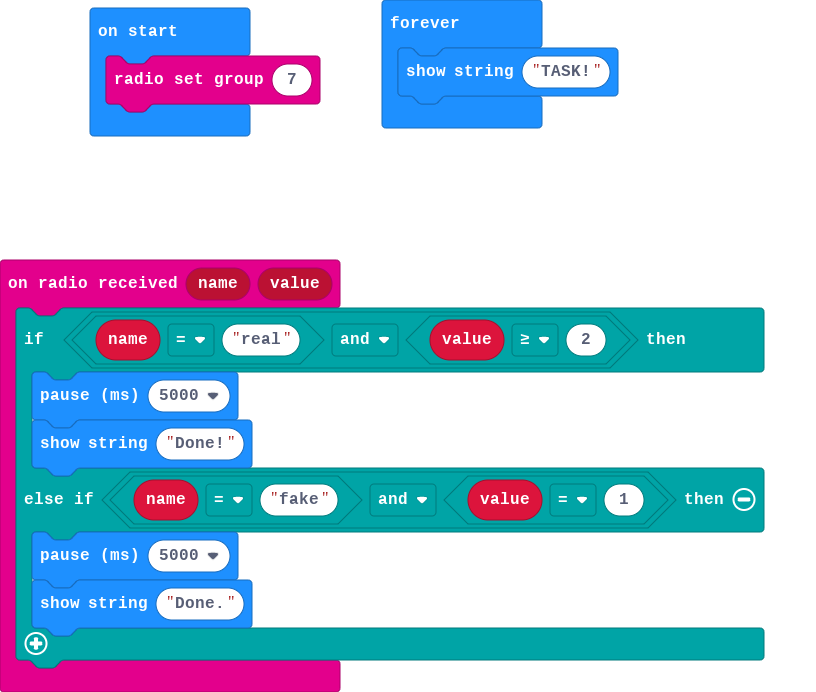
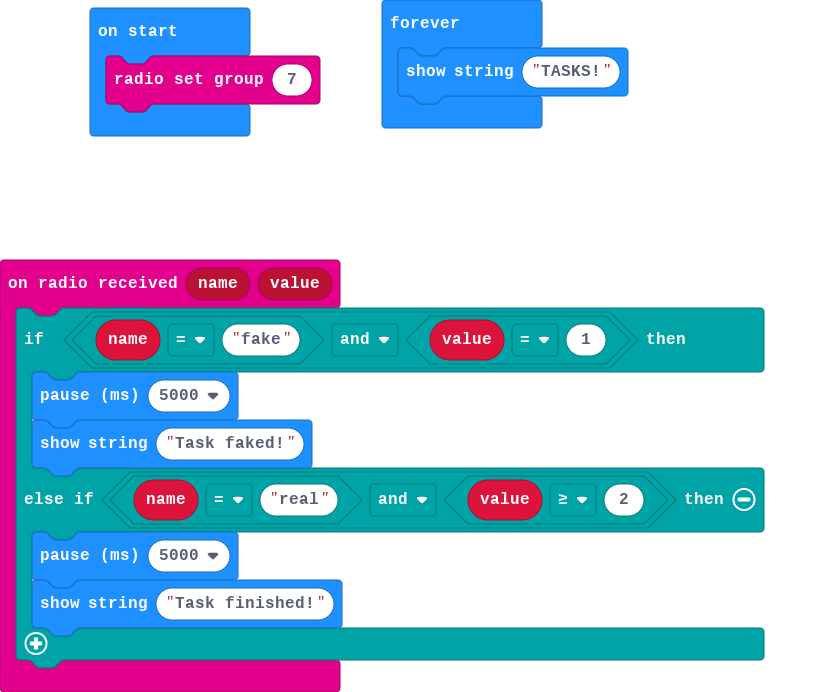
Update main.blocks, main.ts

diff --git a/main.ts b/main.ts
@@ -1,13 +1,13 @@
 radio.onReceivedValue(function (name, value) {
-    if (name == "real" && value >= 2) {
+    if (name == "fake" && value == 1) {
         basic.pause(5000)
-        basic.showString("Done!")
-    } else if (name == "fake" && value == 1) {
+        basic.showString("Task faked!")
+    } else if (name == "real" && value >= 2) {
         basic.pause(5000)
-        basic.showString("Done.")
+        basic.showString("Task finished!")
     }
 })
 radio.setGroup(7)
 basic.forever(function () {
-    basic.showString("TASK!")
+    basic.showString("TASKS!")
 })
